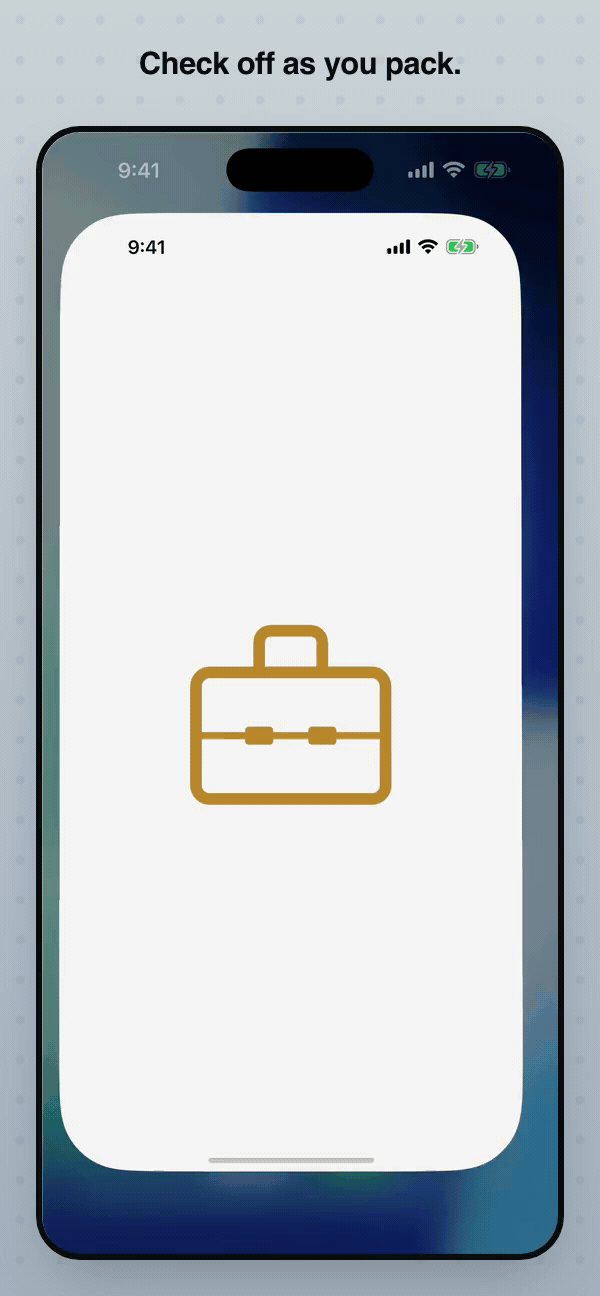
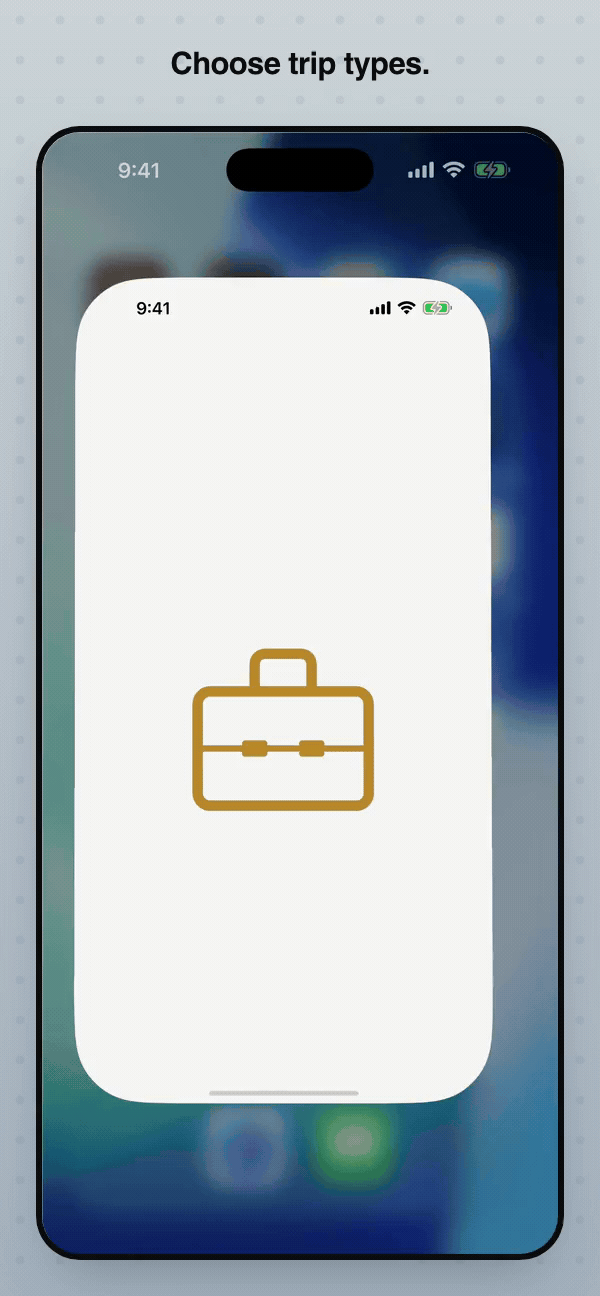
Packing List demo: show the list auto-building from the trip type
Publish the tuned auto-build demo (store-assets wedge.gif, gate-passed,
14.4s) as the site/catalog GIF for Packing List, replacing the duller
"check off as you pack" hero. The list building itself from the trip type
is the real differentiator, and the stronger hook for the app page and for
sharing. Regenerates the poster; updates the demo alt text to match.

diff --git a/src/data/apps.ts b/src/data/apps.ts
@@ -28,7 +28,7 @@ const DEMOS: Record<string, NonNullable<AppRecord['demo']>> = {
   'packing-list': {
     src: packingDemo,
     poster: packingPoster,
-    alt: 'A packing list filling in from the trip type, then items checked off',
+    alt: 'A packing list building itself from the trip type, with sensible quantities',
   },
   'free-workout-timer': {
     src: fwtDemo,
